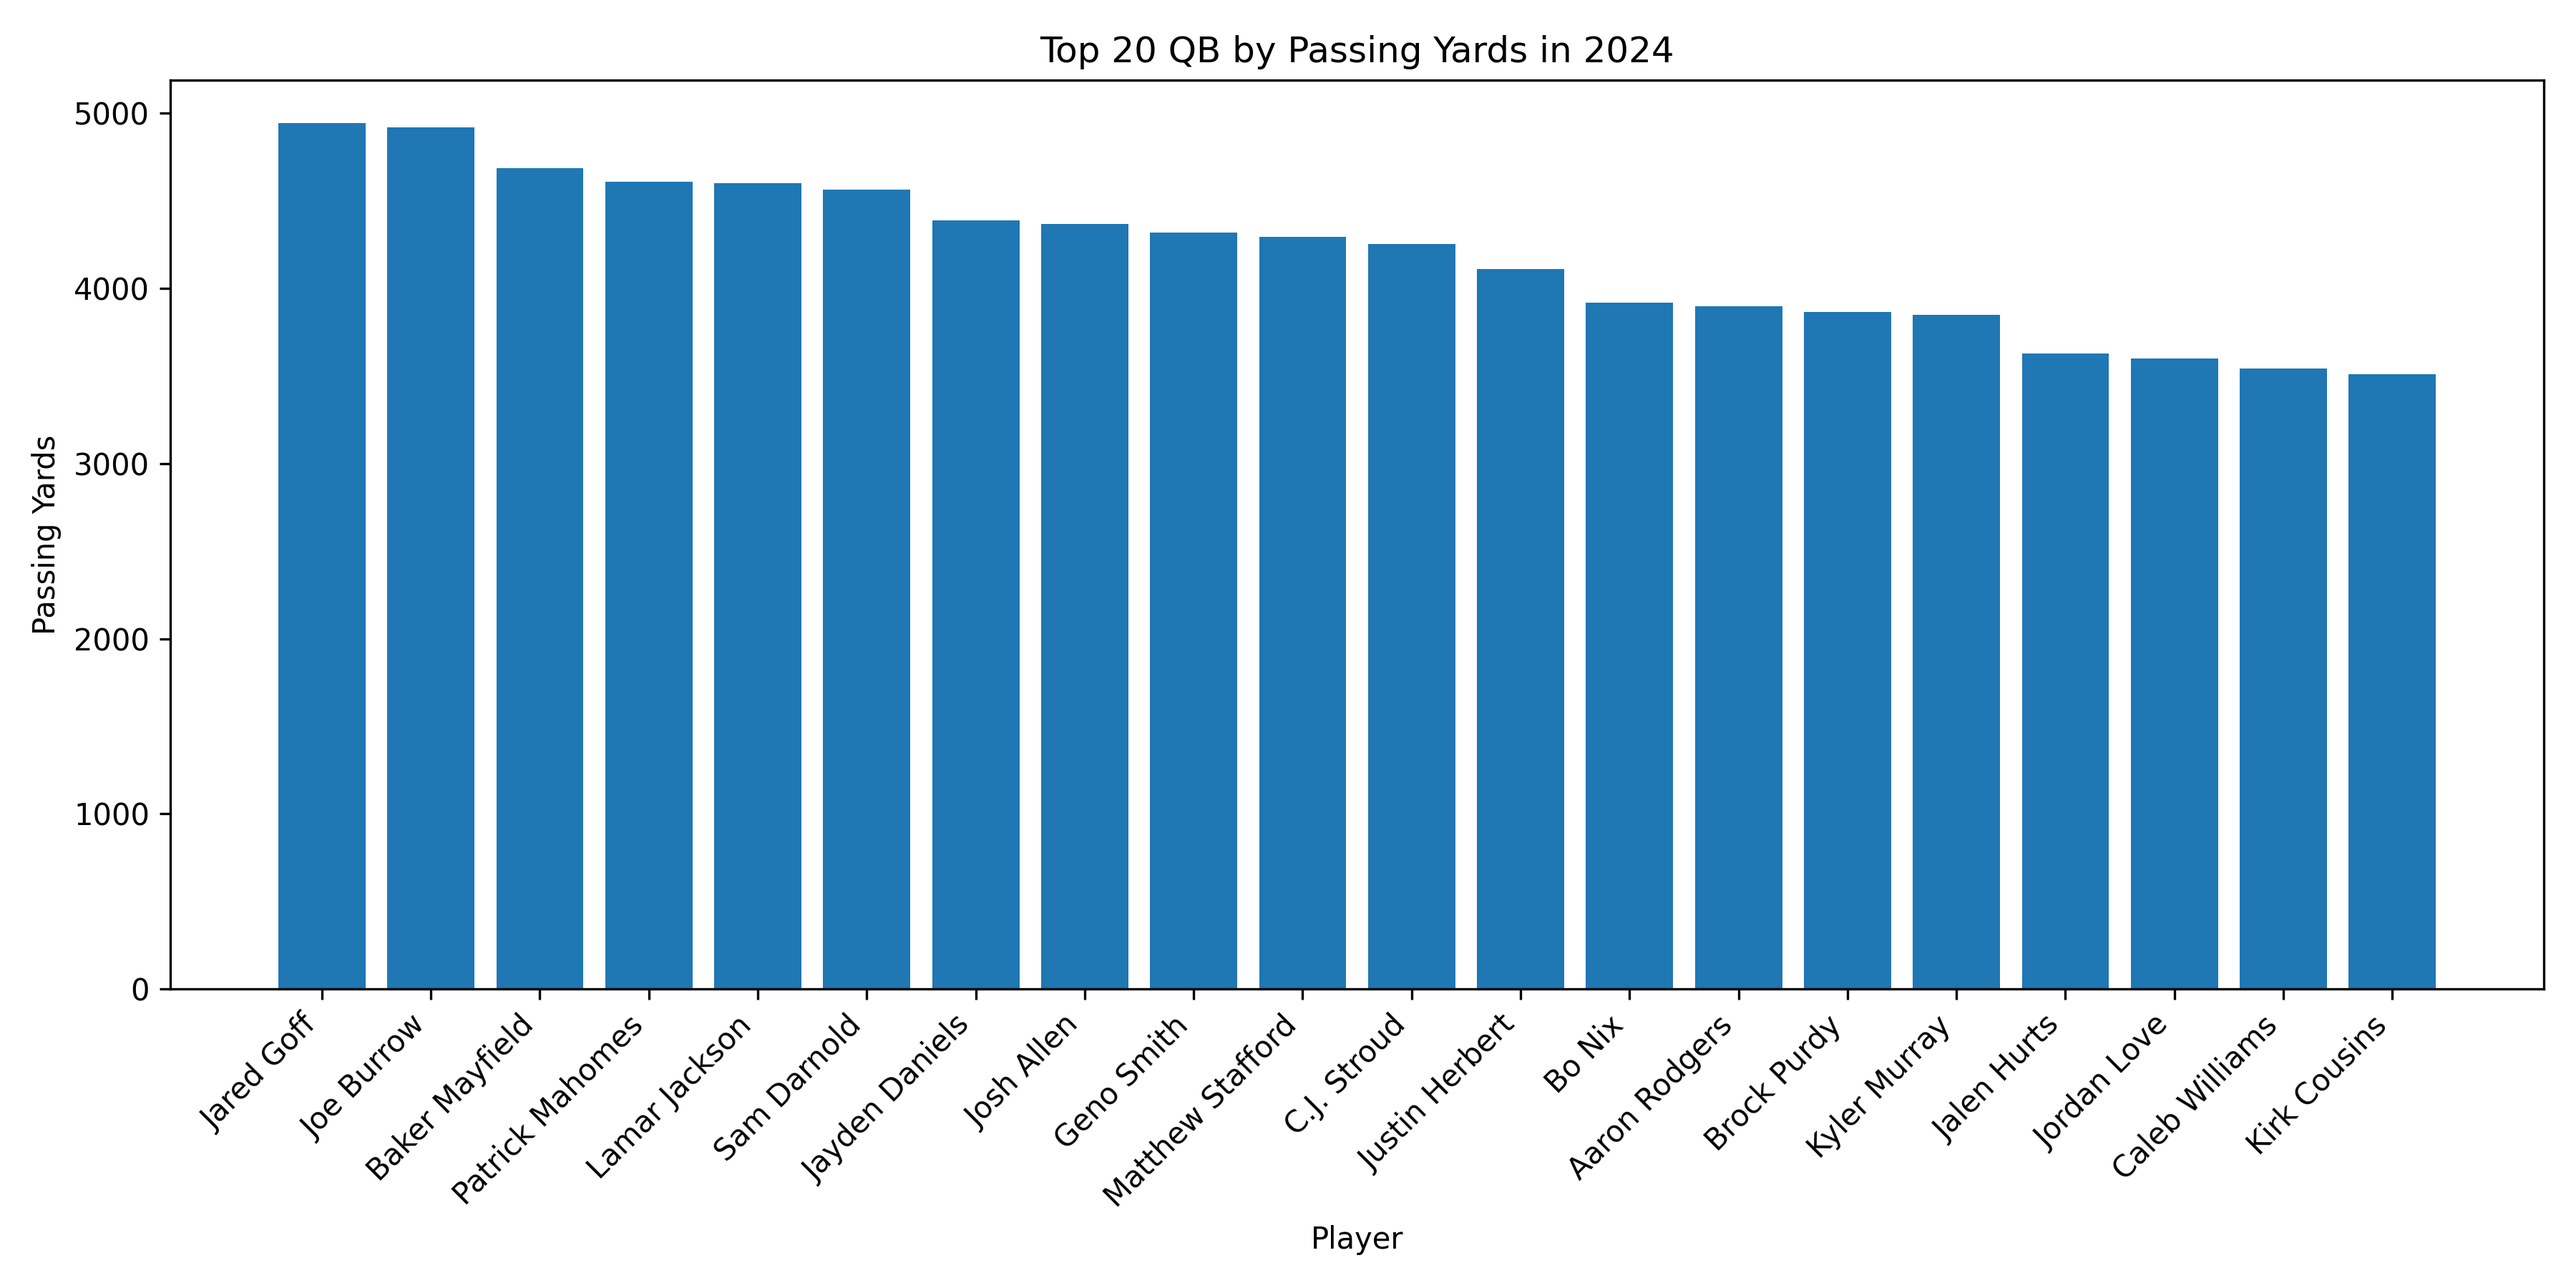
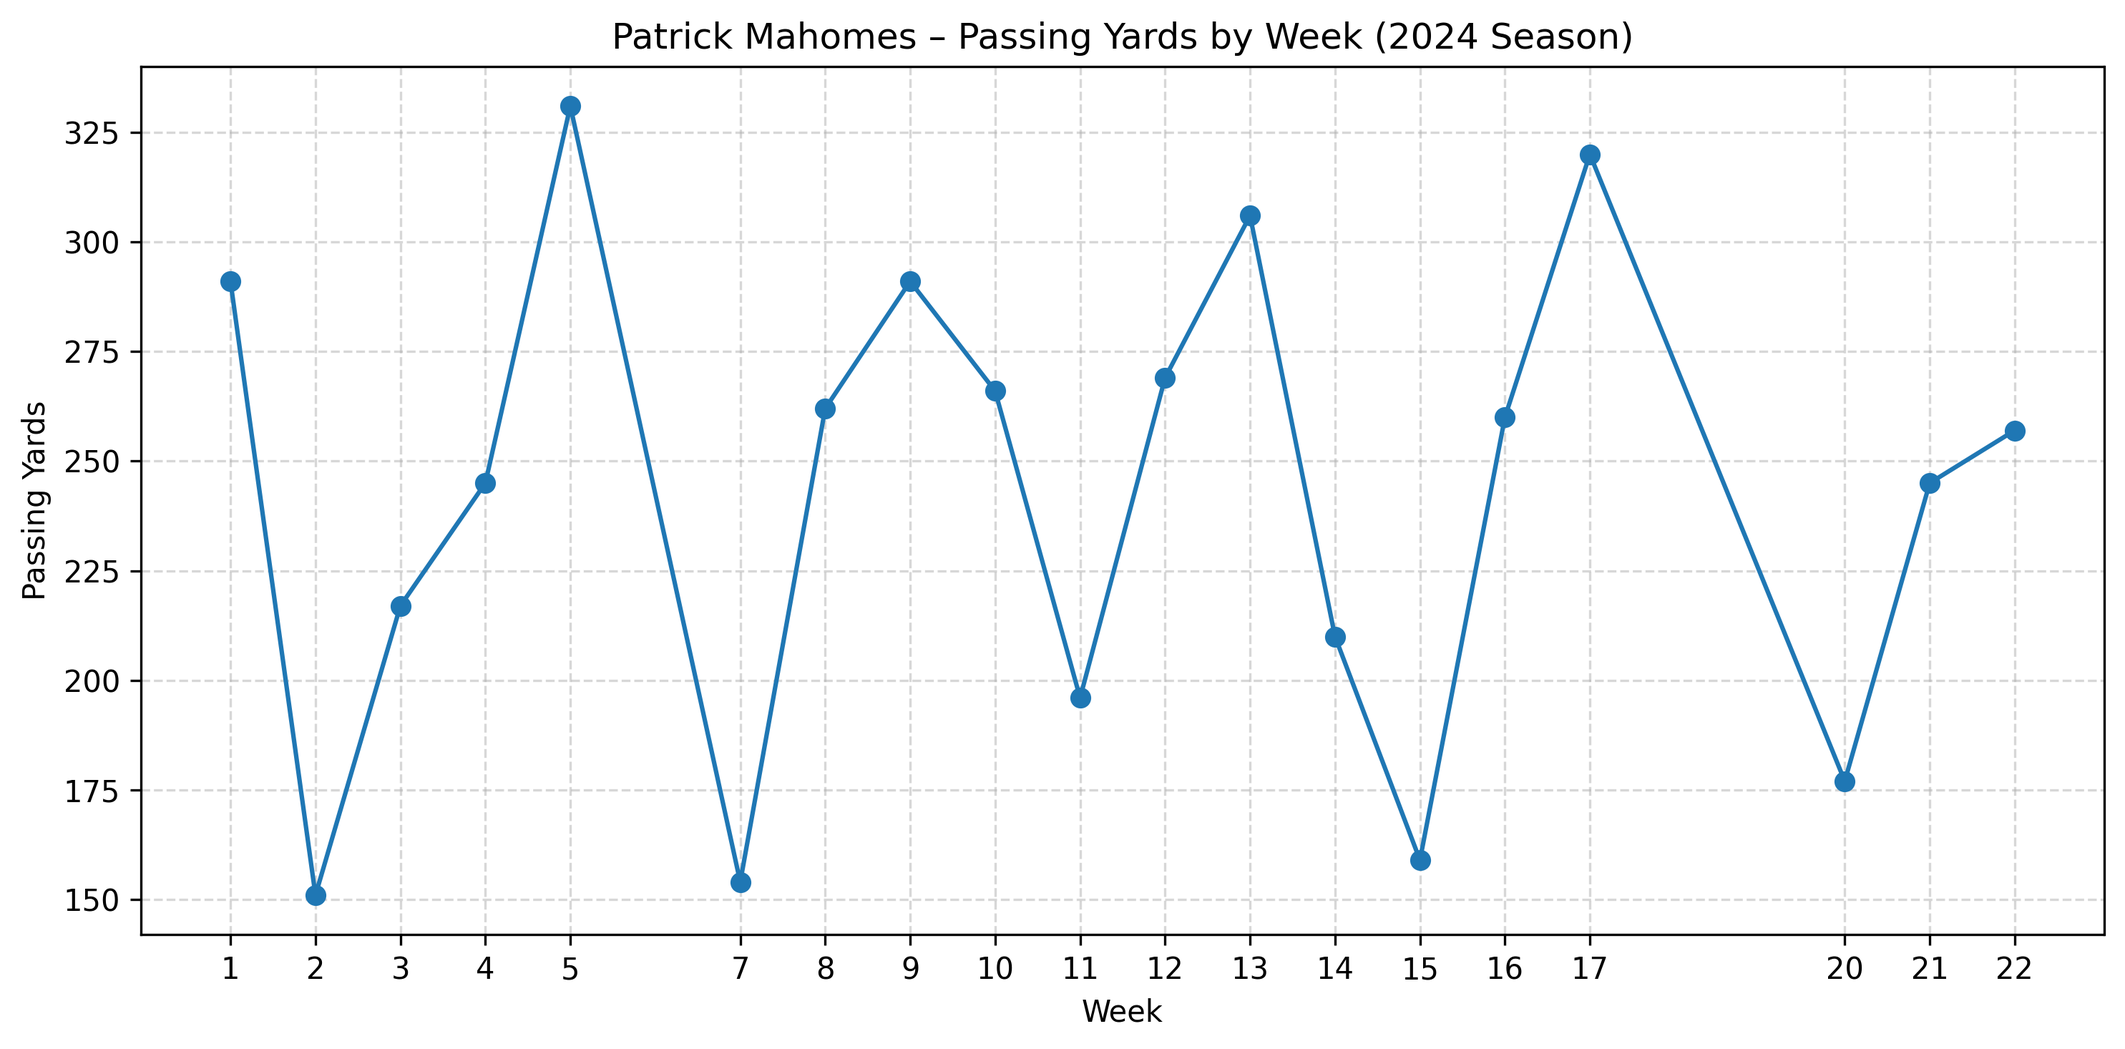
Work completed

diff --git a/Unit 4/visualization.py b/Unit 4/visualization.py
@@ -1,13 +1,12 @@
-from helperLogic import plot_position_stat_bar
+from helperLogic import plot_position_stat_bar,  plot_player_stat_by_week
 
-plot_position_stat_bar(2024, 'QB','passing_yards', save_path='Qb_passing_2024.png')
+# plot_position_stat_bar(2024, 'QB','passing_yards', save_path='Qb_passing_2024.png')
+plot_player_stat_by_week(2024, 'Patrick', 'Mahomes', 'passing_yards', save_path='Qb_passing_2024.png')
 1.
-'Josh Jacob 2022'
-'Christian McCaffrey 2023'
-'Saquon Barkley 2024'
+'Derrick Henry had the most rushing yards over 2022-2024'
 
 
 
 
 2.
-'Patrick Mahomes has declined over this period of time'
+'Patrick Mahomes has declined over this period over time'
